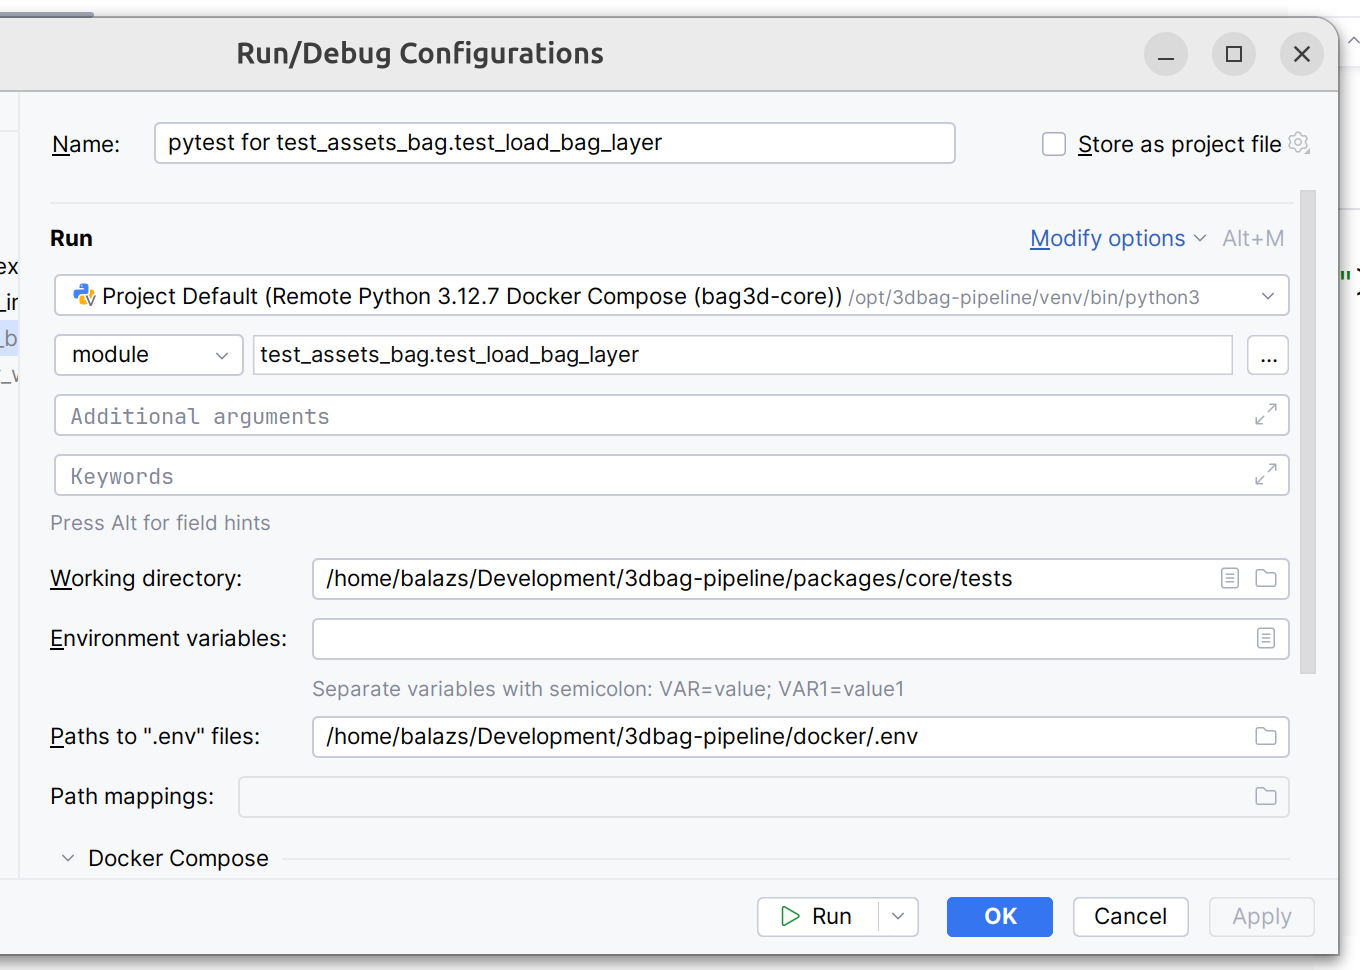
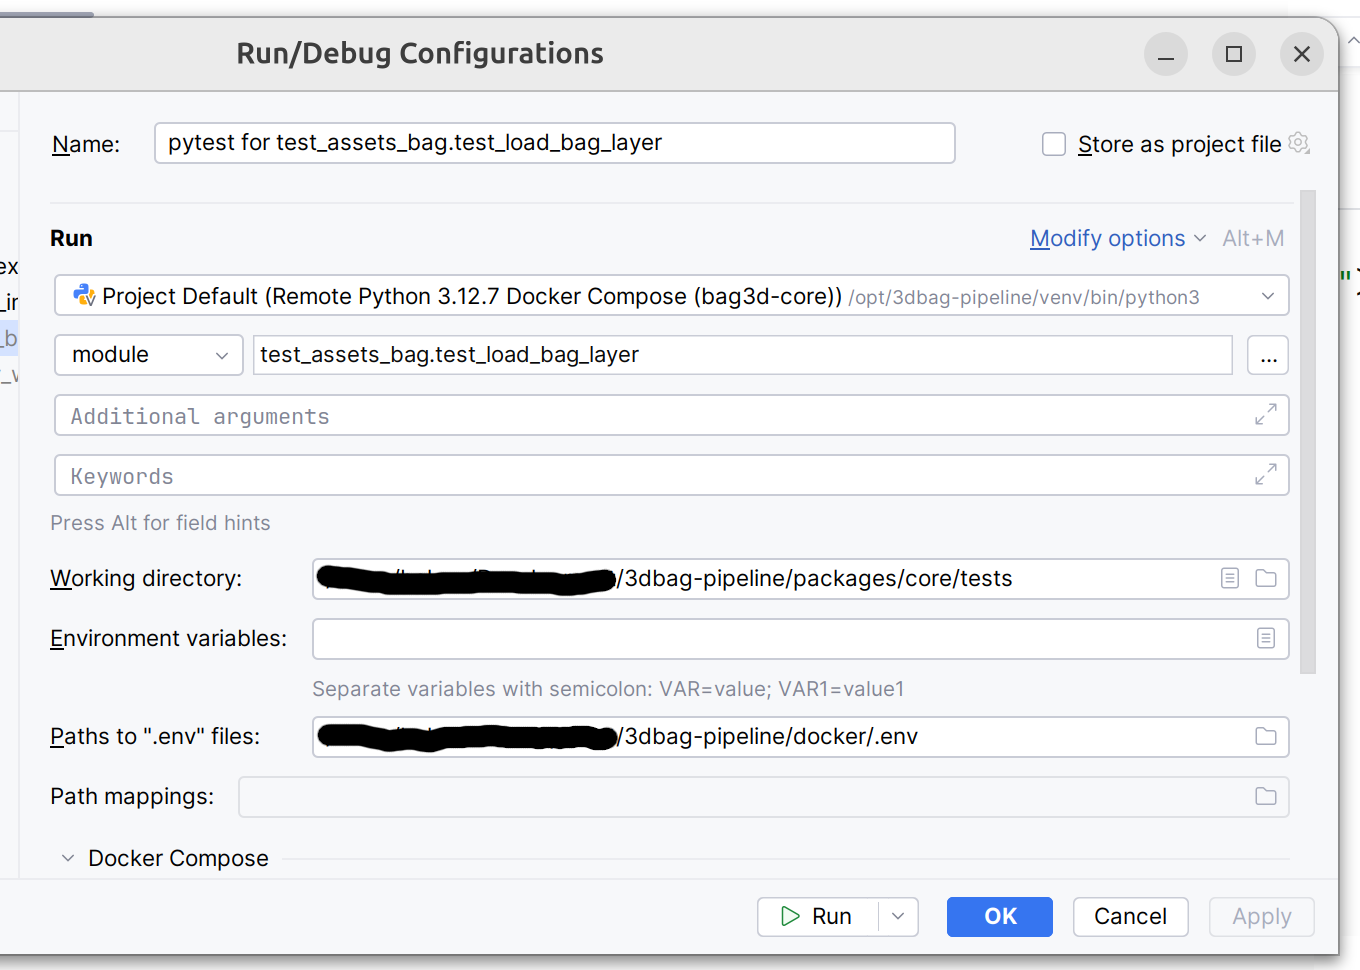
Improve pycharm test config docs

Changed region(s): [[0.2162, 0.7423, 0.4632, 0.7732], [0.2162, 0.5876, 0.4632, 0.6186]]

diff --git a/docs/development/code.md b/docs/development/code.md
@@ -84,6 +84,8 @@ The `docker_watch` and `docker_up` targets will set the docker compose project n
 
 ### Docker setup in PyCharm (professional)
 
+#### Running the services
+
 Create run configuration that uses the docker compose file.
 You need to set the `docker/.env` environment variables file and set two environment variables manually.
 These two environment variables are the same that the `makefile` sets, when using the make-based setup:
@@ -100,9 +102,17 @@ Start the services by running the configuration from the compose file.
 For example, see the screenshot below. 
 ![](../images/docker_compose_start.png)
 
-Set up the python interpreter in the docker container as the project interpreter, using PyCharm's docker-compose interpreter setup.
-Note here that you need to use the matching service for the 3dbag-pipeline package. 
-For example, for working on the `core` package, you need to configure the `bag3d-core` service for the python interpreter.
+#### Running tests
+
+Make sure that the docker volumes are created (see above), but the [docker services](#Running-the-services) are not running and the containers are removed.
+
+You need to add a python interpreter per workflow package (core, floors_estimation, party_walls). 
+Set up the python interpreter in the docker container of the workflow packages as the project interpreter, using PyCharm's docker-compose interpreter setup (`Add Interpreter` / `On Docker Compose...`).
+Note here that you need to use the matching service for the 3dbag-pipeline package, and set the two environment variables just as when configuring the [docker services](#Running-the-services). 
+For example, for working on the `core` package, you need to configure the `bag3d-core` service for the python interpreter.\
+After clicking 'Next', you might need to manually set the path to the python executable, which is `/opt/3dbag-pipeline/venv/bin/python`. The python installation is configured in the [tools docker image](deployment/docker.md).
+
+![](../images/docker_compose_interpreter.png)
 
 To run a specific test, set up a run configuration with the python interpreter in docker and make sure to use the environment variables from the `docker/.env` file.
 ![](../images/docker_compose_test_config.png)
@@ -113,7 +123,7 @@ For further details, see the [PyCharm documentation](https://www.jetbrains.com/h
 
 In you have a local installation of `uv`, you can format you code with:
 
-```
+```shell
 make format
 ```
 
@@ -126,28 +136,28 @@ Some tests take a long time to execute. These are marked with the `@pytest.mark.
 The tests use the sample data that are downloaded as shown above.
 
 You can run the fast unit test for all packages with:
- 
- ```shell
- make test
- ```
+
+```shell
+make test
+```
 
 For running also the slow tests (which require more time) you can run:
 
-  ```shell
- make test_slow
- ```
+```shell
+make test_slow
+```
 
- For running the integration tests you can use:
+For running the integration tests you can use:
 
-  ```shell
- make test_integration
- ```
+```shell
+make test_integration
+```
 
- For running all tests, you can run:
+For running all tests, you can run:
 
- ```shell
- make test_all
- ```
+```shell
+make test_all
+```
 
 ## Installing requirements without the Docker setup
 
